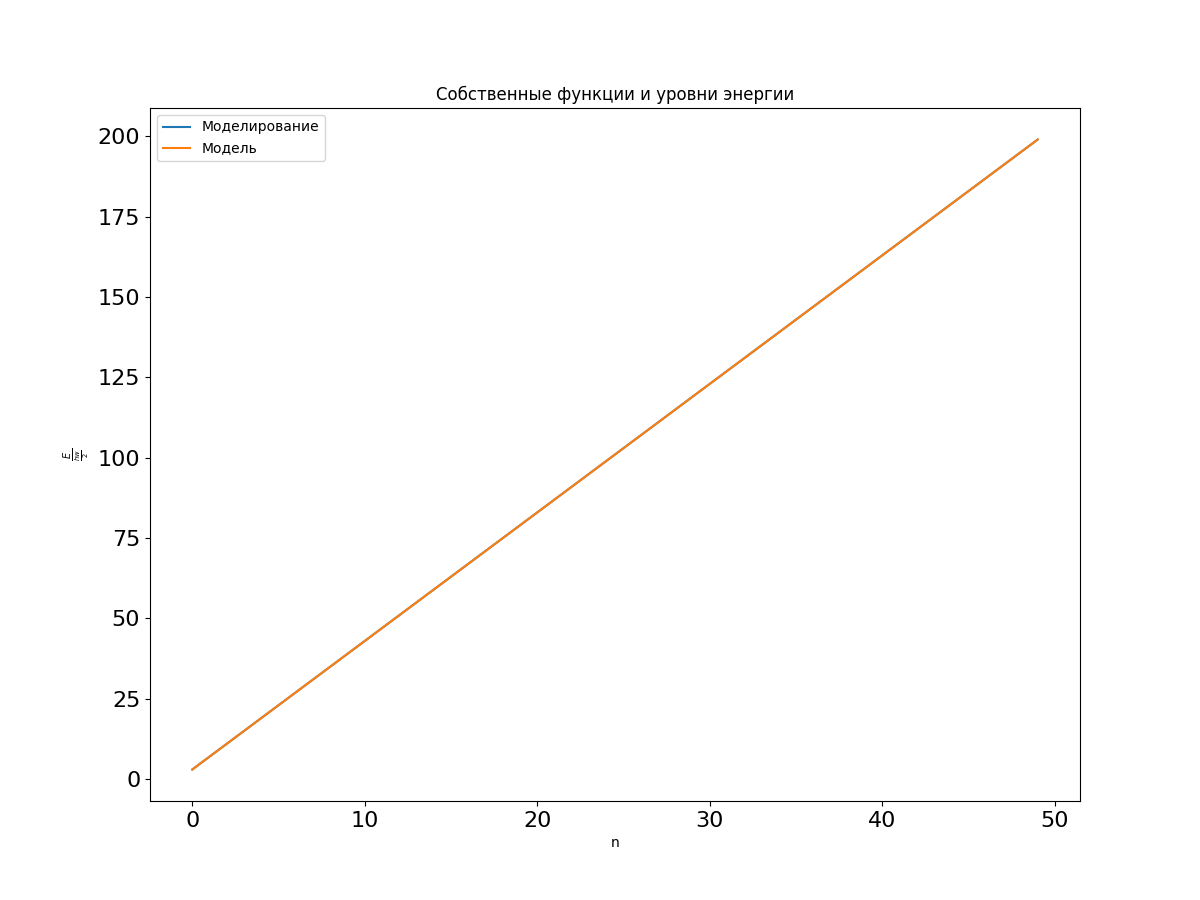
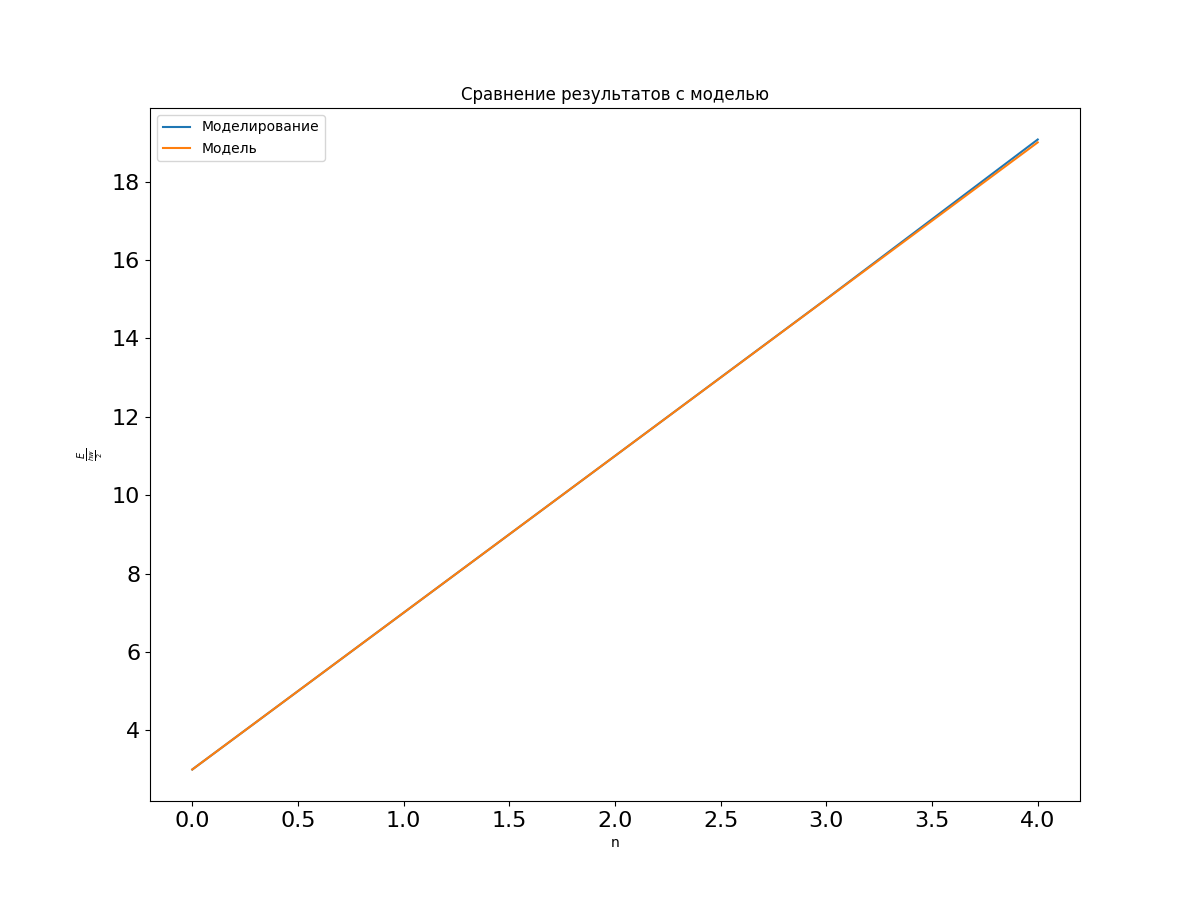
parabola

diff --git a/parabola.py b/parabola.py
@@ -41,19 +41,19 @@ def check_dependence(energies: np.ndarray, gipotesis=lambda x: 2 * x + 1, path="
     c = ["r", "g", "b", "black", "yellow"]
     axs.plot(range(len(energies)), energies, label='Моделирование')
     axs.plot(range(len(energies)), [gipotesis(i) for i in range(len(energies))], label='Модель')
-    plt.title("Собственные функции и уровни энергии")
+    plt.title("Сравнение результатов с моделью")
     plt.xlabel(r"n")
     plt.ylabel(r"$\frac{E}{\frac{hw}{2}}$")
     plt.legend()
     plt.savefig(path)
 
 
-parabola = ParabolicWell(-50, 50, 20000)
-parabola.solve(num_levels=100)
+parabola = ParabolicWell(-5, 5, 20000)
+parabola.solve(num_levels=10)
 parabola.plot_wavefunctions(path="results/parabola/1_wave.png")
 check_dependence(parabola.get_energy(), lambda x: 2*x + 1, "results/parabola/1_gip.png")
 
-half_parabola = HalfParabolicWell(50, 20000)
-half_parabola.solve(num_levels=50)
+half_parabola = HalfParabolicWell(5, 20000)
+half_parabola.solve(num_levels=5)
 half_parabola.plot_wavefunctions(path="results/half_parabola/1_wave.png")
 check_dependence(half_parabola.get_energy(), lambda x: 4*x + 3, "results/half_parabola/1_gip.png")
